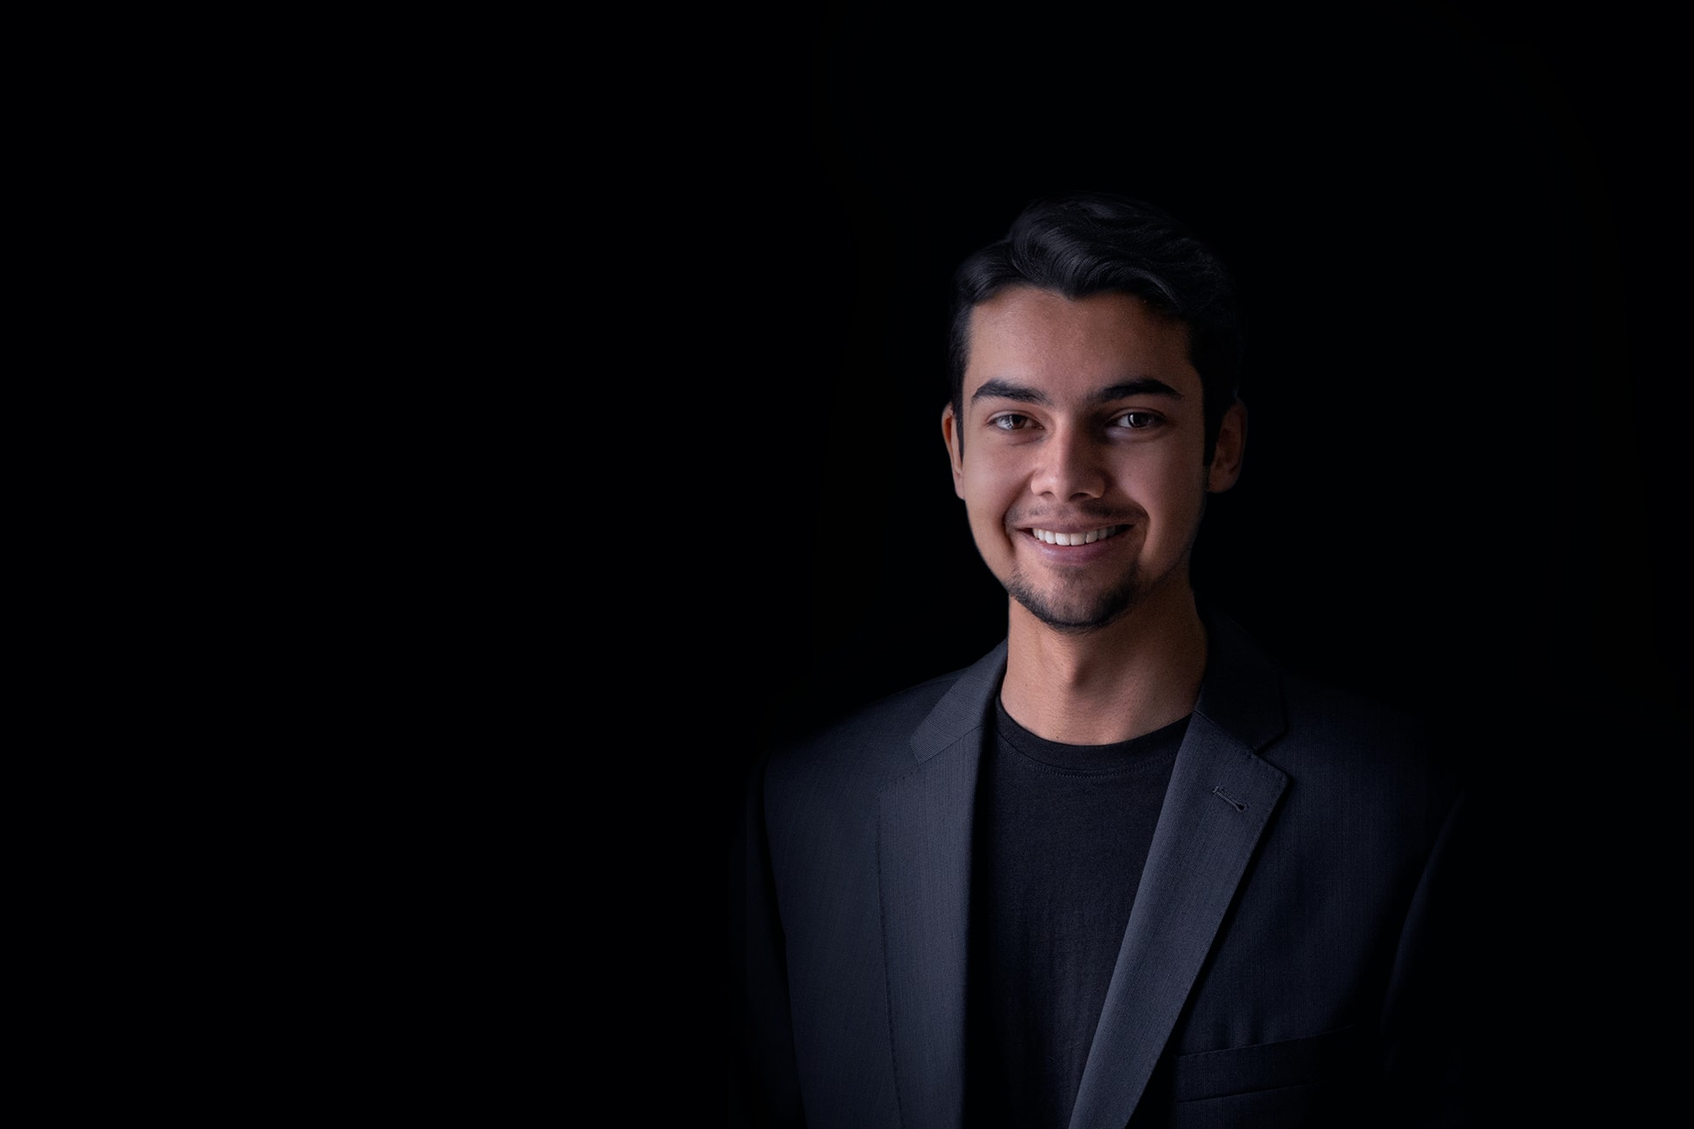
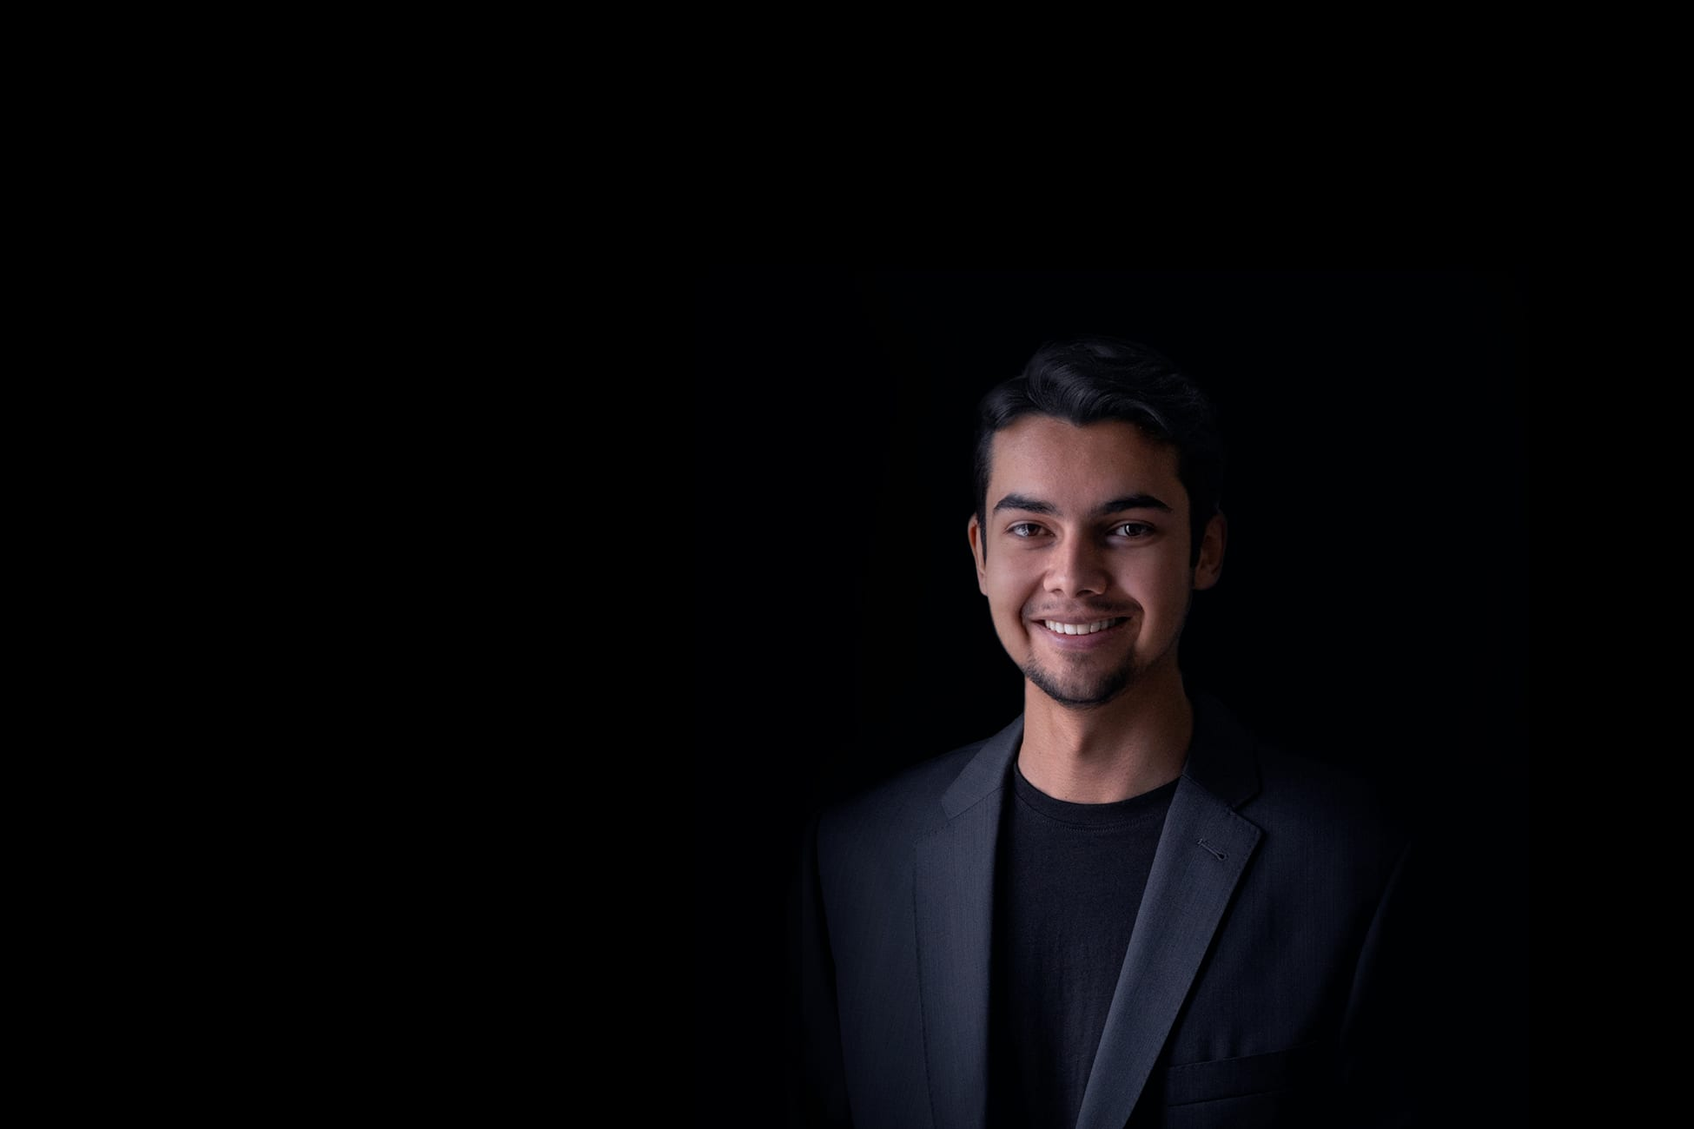
Smaller picture, more languages added.

Changed region(s): [[0.4615, 0.1846, 0.8, 1.0], [0.6462, 0.7692, 0.6769, 0.9231], [0.6154, 0.9231, 0.6462, 1.0]]

diff --git a/resume.html b/resume.html
@@ -183,7 +183,7 @@
                                                             <h3>Jun 2016 - Current</h3>
                                                             <h4>Data Science/ Machine Learning</h4>
                                                             <h5>Project  DeepChef</h5>
-                                                            <p>I currently work on my project
+                                                            <p>Currently fixing bugs and shipping new features on
                                                                 <a href="https://muriz.me/products/lemon/" class="lemon" target="_blank">Lemon Code Editor</a>.
                                                             </p>
                                                         </div>
@@ -200,7 +200,7 @@
                                                             <h3>2012-2014</h3>
                                                             <h4>Game Development Unity3D</h4>
                                                             <h5>2D Platform games</h5>
-                                                            <p>Specialized in 2D games.</p>
+                                                            <p>Published 2D games.</p>
                                                         </div>
                                                         
                                                         <div class="event">
@@ -227,7 +227,7 @@
                                                             
                     
                                                         
-                                                        <p><a href="#" class="button  primary"><i class="pw-icon-doc-alt"></i>Download CV</a></p>
+                                                        <p><a class="button  primary"><i class="pw-icon-doc-alt"></i>Download CV</a></p>
                                                         
                                                     </div>
                                                     <!-- col -->
@@ -250,15 +250,6 @@
                             
                                                         <!-- .skill-unit -->
                                                         <div class="skill-unit">
-                                                            <h4>PYTHON</h4>
-                                                            <div class="bar" data-percent="85">
-                                                                <div class="progress"></div>
-                                                            </div>
-                                                        </div>
-                                                        <!-- .skill-unit -->
-                        
-                                                        <!-- .skill-unit -->
-                                                        <div class="skill-unit">
                                                             <h4>JAVA</h4>
                                                             <div class="bar" data-percent="70">
                                                                 <div class="progress"></div>
@@ -274,11 +265,56 @@
                                                             </div>
                                                         </div>
                                                         <!-- .skill-unit -->
-                        
+
+                                                        <!-- .skill-unit -->
+                                                        <div class="skill-unit">
+                                                            <h4>Ruby</h4>
+                                                            <div class="bar" data-percent="20">
+                                                                <div class="progress"></div>
+                                                            </div>
+                                                        </div>
+                                                        <!-- .skill-unit -->
+
+                                                        <!-- .skill-unit -->
+                                                        <div class="skill-unit">
+                                                            <h4>Fortran</h4>
+                                                            <div class="bar" data-percent="30">
+                                                                <div class="progress"></div>
+                                                            </div>
+                                                        </div>
+                                                        <!-- .skill-unit -->
+
+                                                        <!-- .skill-unit -->
+                                                        <div class="skill-unit">
+                                                            <h4>PYTHON</h4>
+                                                            <div class="bar" data-percent="90">
+                                                                <div class="progress"></div>
+                                                            </div>
+                                                        </div>
+                                                        <!-- .skill-unit -->
+
+                                                        <!-- .skill-unit -->
+                                                        <div class="skill-unit">
+                                                            <h4>JavaScript</h4>
+                                                            <div class="bar" data-percent="50">
+                                                                <div class="progress"></div>
+                                                            </div>
+                                                        </div>
+                                                        <!-- .skill-unit -->
+
                                                         <!-- .skill-unit -->
                                                         <div class="skill-unit">
                                                             <h4>Haskell</h4>
-                                                            <div class="bar" data-percent="25">
+                                                            <div class="bar" data-percent="30">
+                                                                <div class="progress"></div>
+                                                            </div>
+                                                        </div>
+                                                        <!-- .skill-unit -->
+
+                                                        <!-- .skill-unit -->
+                                                        <div class="skill-unit">
+                                                            <h4>C++</h4>
+                                                            <div class="bar" data-percent="35">
                                                                 <div class="progress"></div>
                                                             </div>
                                                         </div>
@@ -295,6 +331,24 @@
                                                             </h2>
                                                         </div>
                                                         <!-- section-title -->
+
+                                                        <!-- .skill-unit -->
+                                                        <div class="skill-unit">
+                                                            <h4>TENSORFLOW</h4>
+                                                            <div class="bar" data-percent="70">
+                                                                <div class="progress"></div>
+                                                            </div>
+                                                        </div>
+                                                        <!-- .skill-unit -->
+
+                                                        <!-- .skill-unit -->
+                                                        <div class="skill-unit">
+                                                            <h4>DOCKER</h4>
+                                                            <div class="bar" data-percent="60">
+                                                                <div class="progress"></div>
+                                                            </div>
+                                                        </div>
+                                                        <!-- .skill-unit -->
                                                         
                                                         <!-- .skill-unit -->
                                                         <div class="skill-unit">
@@ -318,15 +372,6 @@
                                                         <div class="skill-unit">
                                                             <h4>KERAS</h4>
                                                             <div class="bar" data-percent="90">
-                                                                <div class="progress"></div>
-                                                            </div>
-                                                        </div>
-                                                        <!-- .skill-unit -->
-
-                                                        <!-- .skill-unit -->
-                                                        <div class="skill-unit">
-                                                            <h4>TENSORFLOW</h4>
-                                                            <div class="bar" data-percent="70">
                                                                 <div class="progress"></div>
                                                             </div>
                                                         </div>

diff --git a/about.html b/about.html
@@ -182,7 +182,7 @@
                                                         <div class="service">
                                                             <img src="images/site/bulletin_board.svg" alt="image"/>
                                                             <h4>Machine Learning</h4>
-                                                            <p>Specialized in technical implementation of machine learning projects. Two and a half years experience with developing and training <strong>Convolutional Neural Network</strong> architectures.</p>
+                                                            <p>Interested in technical implementation of machine learning projects. Two and a half years into developing and training <strong>Convolutional Neural Network</strong> architectures and <strong>Natural Language Processing</strong> models.</p>
                                                         </div>
                                                         <!-- service -->
                                         
@@ -196,7 +196,7 @@
                                                         <div class="service">
                                                             <img src="images/site/android.svg" alt="image"/>
                                                             <h4>Android Platform</h4>
-                                                            <p>Started programming for Android in 2010. Made through the span of three years dozens of applications, in addition contributed to <strong>open-source projects on GitHub</strong> which are now used in Android apps from some big tech companies.</p>
+                                                            <p>Started programming for Android in 2010. Made through the span of four years dozens of applications, in addition contributed to <strong>open-source projects on GitHub</strong> which are now part of diverse Android apps published on Google Play Store.</p>
                                                         </div>
                                                         <!-- service -->
                                         
@@ -210,7 +210,7 @@
                                                         <div class="service">
                                                             <img src="images/site/unity.svg" alt="image"/>
                                                             <h4>Game Development</h4>
-                                                            <p>My interest for game development began in 2013 and ended two years later. Created several multi-platform games and specialized in <strong>2D Jump ’n’ Run adventures</strong>. <strong>Collaborated</strong> with folks from <strong>South-Africa</strong> and implemented their player logic in C#.</p>
+                                                            <p>My interest for game development began in 2013. Created several multi-platform games and specialized in <strong>2D Jump ’n’ Run adventures</strong>. <strong>Published</strong> a game with a team from <strong>South-Africa</strong> and implemented their main player and opponent logic in C#.</p>
                                                         </div>
                                                         <!-- service -->
                                         
@@ -224,7 +224,7 @@
                                                         <div class="service">
                                                             <img src="images/site/design.svg" alt="image"/>
                                                             <h4>UI/ UX Design</h4>
-                                                            <p>Heavily interested in user experience. Creating landing pages for my projects and implementing <strong>material design in Andorid</strong> teached me design principles the hard way.</p>
+                                                            <p>Heavily interested in user experience. Created landing pages for my projects and implemented <strong>material design in Andorid</strong>.</p>
                                                         </div>
                                                         <!-- service -->
                                         

diff --git a/contact.html b/contact.html
@@ -208,14 +208,14 @@
                                                 <div class="row">
                                                     
                                                     <!-- column 3/12 -->
-                                                    <div class="col-xs-6 col-sm-3">
+                                                    <div class="col-xs-6 col-sm-4">
                         
                                                         <!-- fun-fact -->
                                                         <div class="fun-fact">
                                                             <!--<i class="pe-7s-map-marker"></i>-->
                                                             <img src="images/site/icon-location.svg" alt="image"/>
                                                             <!--<img src="images/site/icon-03.png" alt="image"/>-->
-                                                            <h4>based in Olten, Switzerland</h4>
+                                                            <h4>based in Switzerland</h4>
                                                         </div>
                                                         <!-- fun-fact -->
                         
@@ -223,7 +223,7 @@
                                                     <!-- column 3/12 -->
                                                     
                                                     <!-- column 3/12 -->
-                                                    <div class="col-xs-6 col-sm-3">
+                                                    <div class="col-xs-6 col-sm-4">
                         
                                                         <!-- fun-fact -->
                                                         <div class="fun-fact">
@@ -239,7 +239,7 @@
                                                     <!-- column 3/12 -->
                                                     
                                                     <!-- column 3/12 -->
-                                                    <div class="col-xs-6 col-sm-3">
+                                                    <div class="col-xs-6 col-sm-4">
                         
                                                         <!-- fun-fact -->
                                                         <div class="fun-fact">
@@ -248,20 +248,6 @@
                                                                 <img src="images/site/icon-mail.svg" alt="image"/>
                                                             </a>
                                                             <h4>muriz.se [at] gmail.com</h4>
-                                                        </div>
-                                                        <!-- fun-fact -->
-                        
-                                                    </div>
-                                                    <!-- column 3/12 -->
-                        
-                                                    <!-- column 3/12 -->
-                                                    <div class="col-xs-6 col-sm-3">
-                        
-                                                        <!-- fun-fact -->
-                                                        <div class="fun-fact">
-                                                            <!--<i class="pe-7s-check"></i>-->
-                                                            <img src="images/site/icon-check.svg" alt="image"/>
-                                                            <h4>Freelance Available</h4>
                                                         </div>
                                                         <!-- fun-fact -->
                         

diff --git a/index.html b/index.html
@@ -57,7 +57,7 @@
                         <a href="#card" id="card-open" class="button secondary">About me</a>
                     </div>
                     <header class="entry-header-blog">
-                        <h2 class="entry-title-blog">the blog.</h2>
+                        <h2 class="entry-title-blog">blog.</h2>
                    </header>
                     <section class="cards-wrapper-blog">
                     <div class="card-grid-space">
@@ -74,7 +74,7 @@
                       <div class="card-grid-space">
                         <a class="card-blog" href="https://towardsdatascience.com/this-ai-is-hungry-b2a8655528be" target="_blank" style="--bg-img: url('/images/blog/01.jpg')">
                           <div>
-                            <h2 class="card-blog-h1">Convolutional Neural Networks</h2>
+                            <h2 class="card-blog-h1">Recognize Food with Convolutional Neural Networks</h2>
                             <p class="card-blog-p">Translate pictures of food into recipes with deep learning...</p>
                             <div class="tags-blog">
                               <div class="tag-blog">9 Sept 2018</div>
@@ -85,7 +85,7 @@
                       <div class="card-grid-space">
                         <a class="card-blog" href="https://medium.com/@Muriz.Serifovic/how-to-write-your-very-first-powerful-artificial-intelligence-s-440895442c03" target="_blank" style="--bg-img: url('/images/blog/02.jpg')">
                           <div>
-                            <h2 class="card-blog-h1">Artificial Intelligence</h2>
+                            <h2 class="card-blog-h1">Write Your First Artificial Intelligence /s</h2>
                             <p class="card-blog-p">Learn how to write your very first powerful artificial intelligence in python /s...</p>
                             <div class="tags-blog">
                               <div class="tag-blog">7 Jan 2017</div>
@@ -114,6 +114,11 @@
                             </div>
                           </div>
                         </a>
+                      </div>
+                      <div class="card-grid-space">
+                        <div class="card-triggers-medium">
+                          <a href="https://medium.com/@Muriz.Serifovic" class="button primary" target="_blank">more on medium.com</a>
+                      </div>
                       </div>
                     </section>
                 </div>

diff --git a/css/layout.css b/css/layout.css
@@ -19,7 +19,7 @@ Main components
   	max-width: 500px; margin: 20px auto; font-size: 1.0rem; font-weight: 300;
 	}
 .card {
-	margin: 0 auto; position: relative; background: #fff;
+	margin: 0 auto; position: relative; background: #000000;
 	}
 .cover-img {
   	position: relative; display: none;
@@ -52,7 +52,7 @@ Main components
 	}
 
 .cover-media {
-	position: relative; padding-top: 70%; filter: grayscale(0.8); background-size: cover; background-position: center center; transition: all .6s;
+	position: relative; padding-top: 70%; background-size: cover; background-position: center center; transition: all .6s;
 	}
 /* disabled blur animation due to poor mobile performance */
 /*.is-card-loaded .cover-media {
@@ -60,12 +60,12 @@ Main components
 	}*/
 .is-card-opened .cover-media {
   transition: all .6s;
-  filter: grayscale(0.5);
+  /*filter: grayscale(0.5);*/
   }
-  
+/*
 .is-ajax-page-active .cover-media {
 	filter: grayscale(0.0);
-}
+}*/
 
 
 /* Tablet Only Styles */

diff --git a/css/main.css b/css/main.css
@@ -1551,7 +1551,7 @@ button:not(.button):hover {
 	font-size: 11px; padding: 9px 18px;
 	}
 .button:after {
-	width: 0%; height: 100%; top: 0; left: 0; background: #345; content: ''; position: absolute; z-index: -1; transition: all 0.3s;
+	width: 0%; height: 100%; top: 0; left: 0; background: #345; content: ''; position: absolute; z-index: -1;/* transition: all 0.3s;*/
 	}
 .button:hover,
 .button:active {
@@ -1571,7 +1571,9 @@ button:not(.button):hover {
 .button i:before {
 	font-size: 120%;
 	}
-
+.card-triggers-medium {
+	text-align: center;
+}
 
 /* TABS */
 .tabs {
